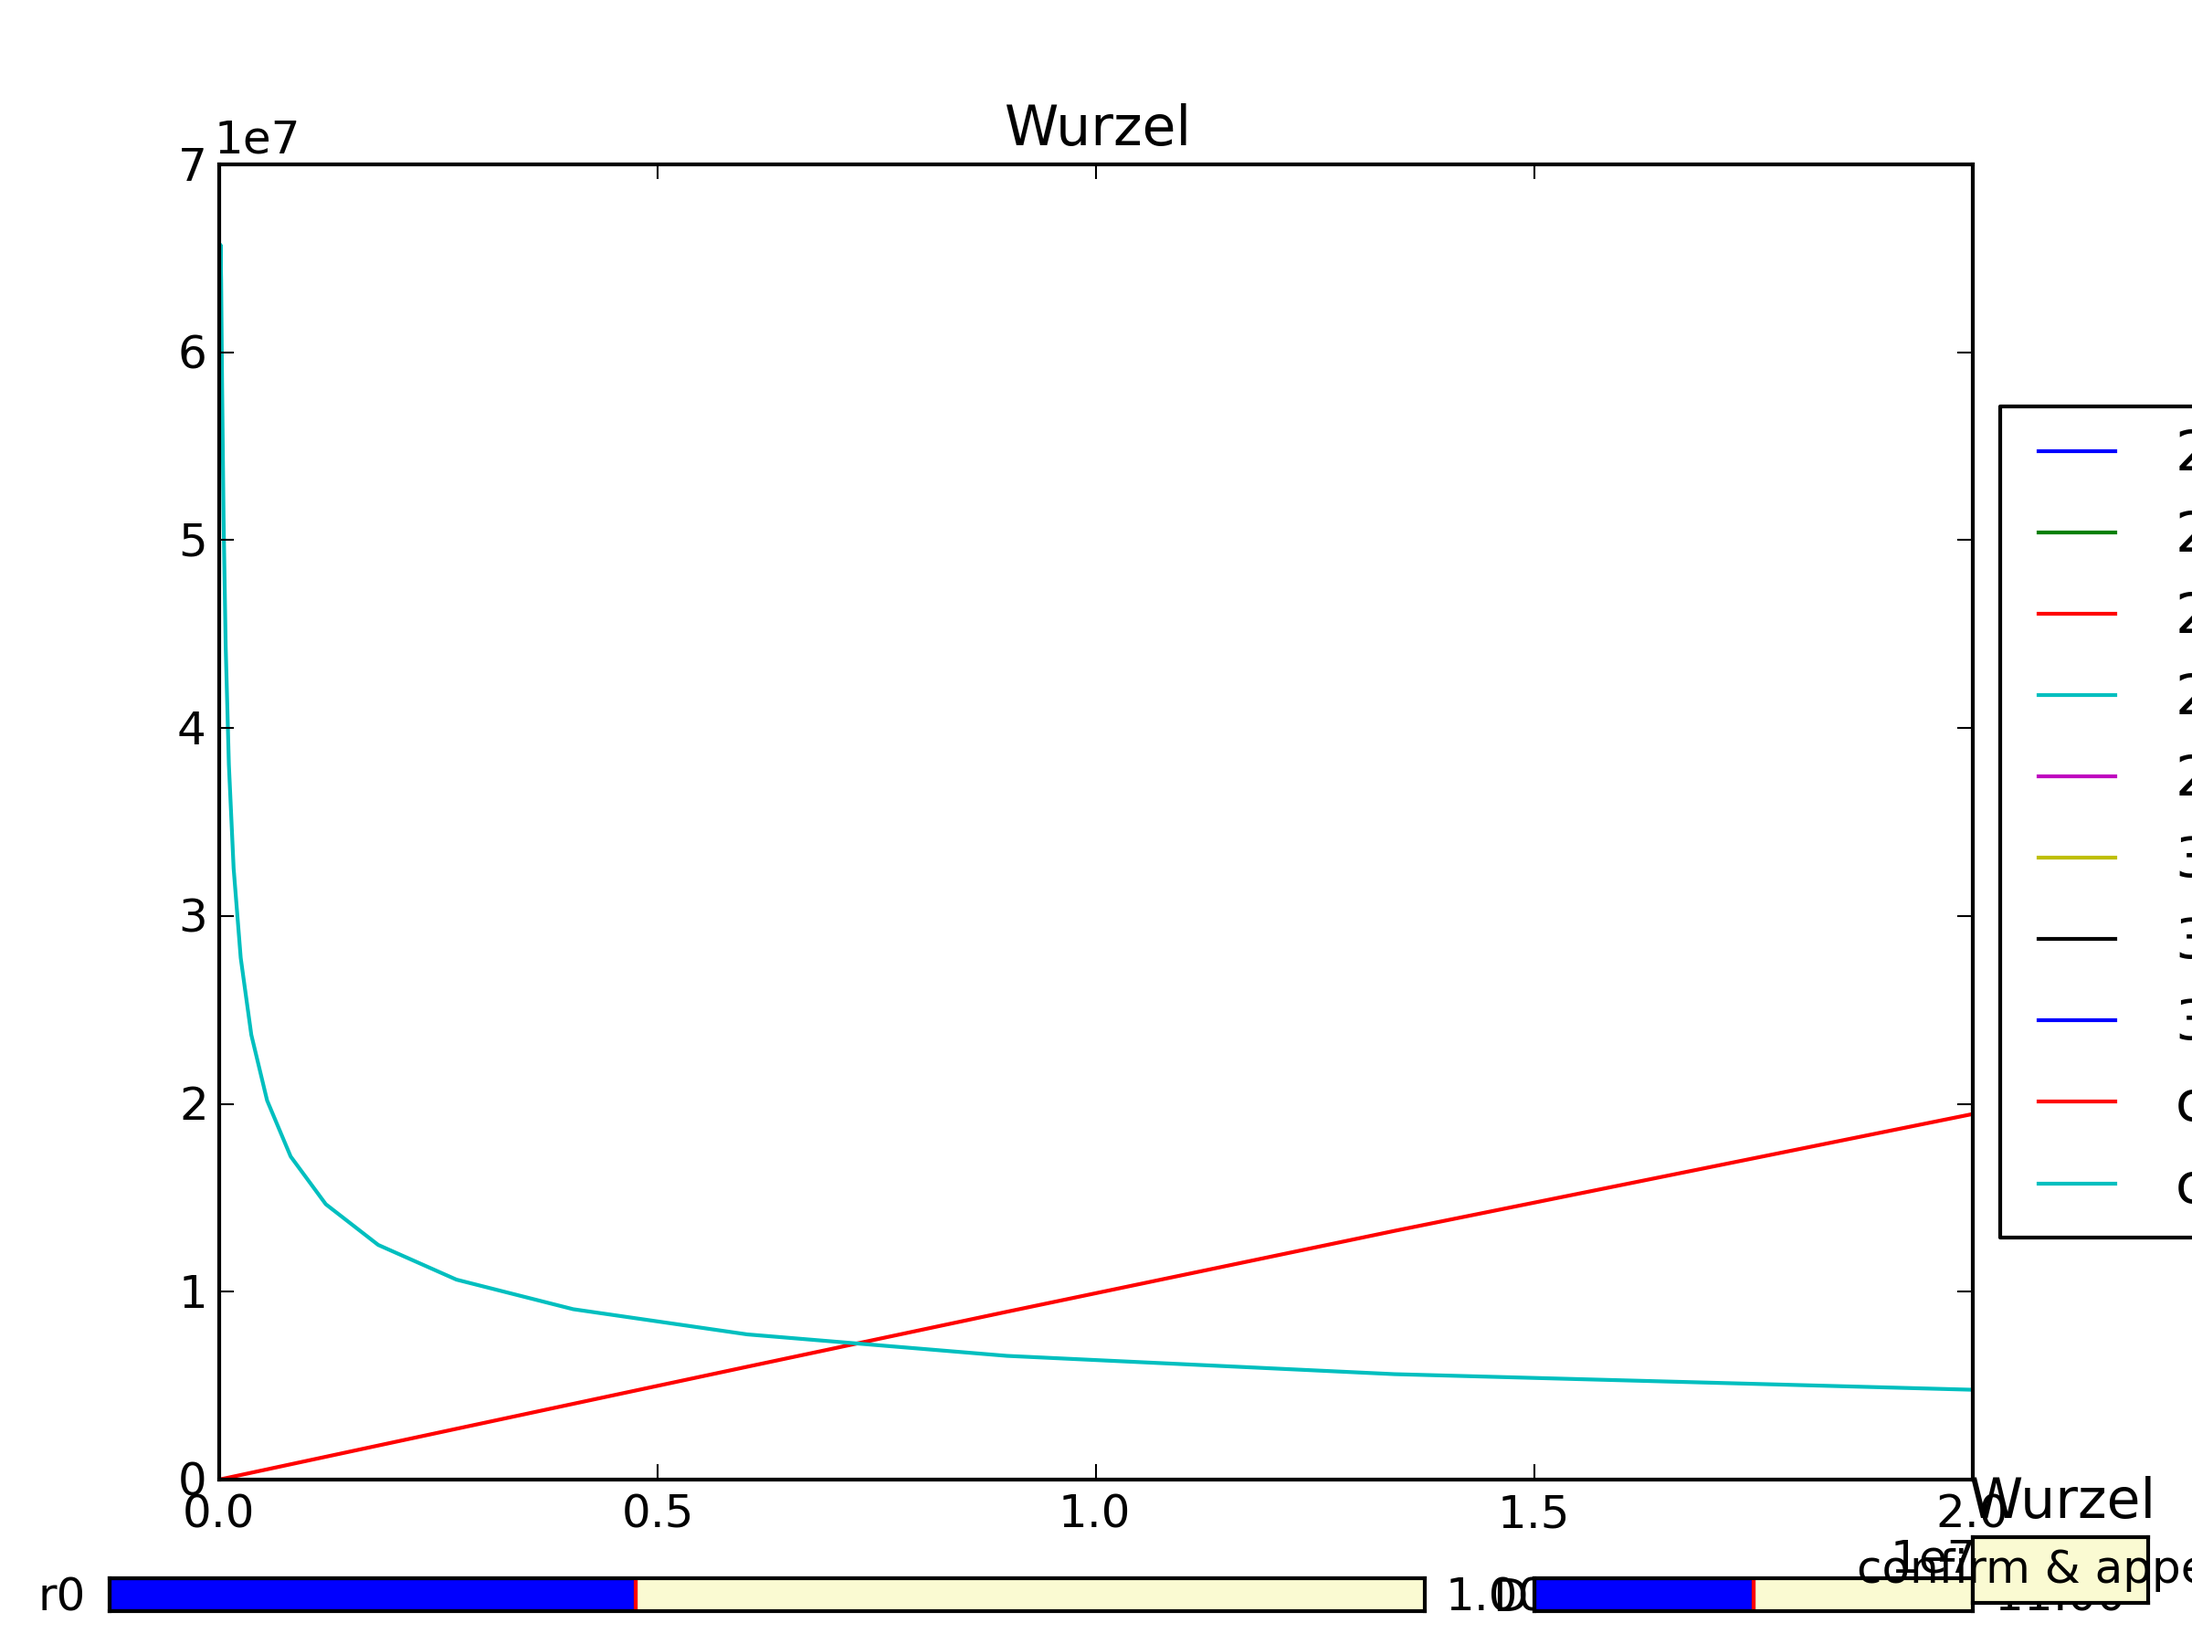
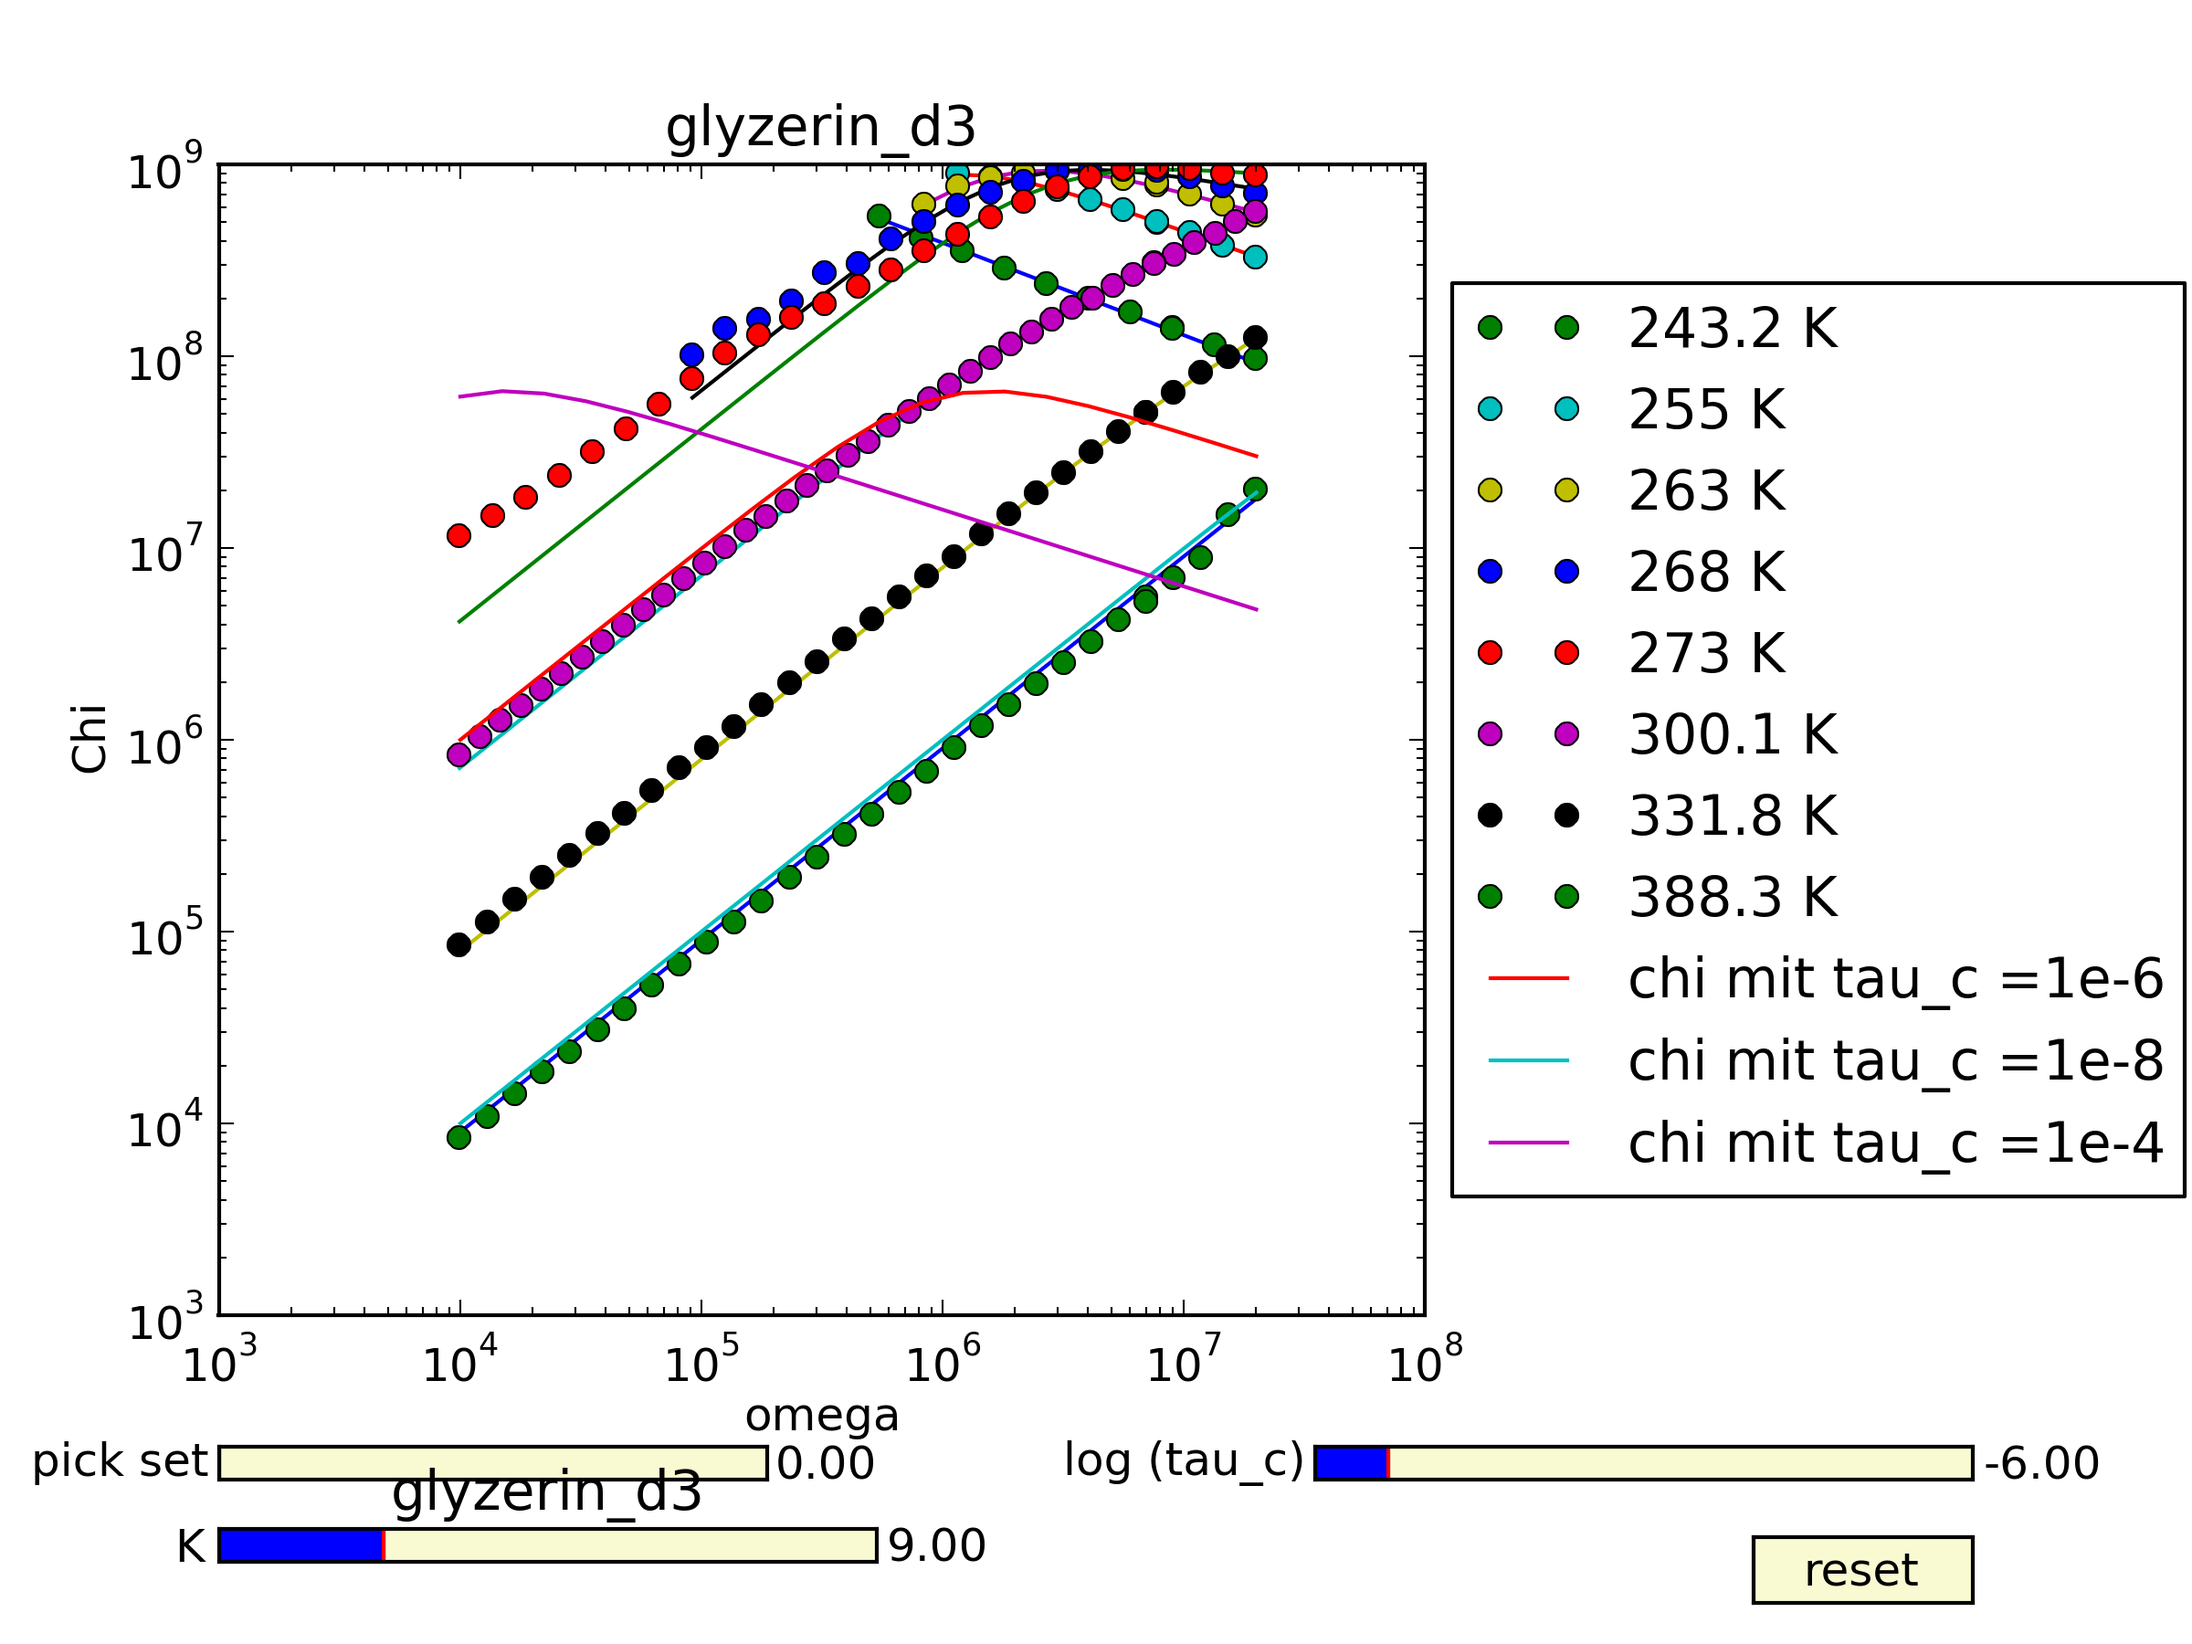
hier stimmen die faktoren fuer diffusion glyzerin

diff --git a/ffc/Glyzerin d3 test/interaktiv-susz.py b/ffc/Glyzerin d3 test/interaktiv-susz.py
@@ -14,10 +14,6 @@ br=[]
 rf=[]
 ra1=[]
 ch=[]
-zeichneD=[]
-zeichneT=[]
-chiNormHelp=[1,1]
-tauNormHelp=[1,1]
 beta=0.9
 omega=np.logspace(4.0,7.301,20,10)
 tau_c=1.0e-6
@@ -48,13 +44,14 @@ def R_1(omega,R1_0,D):
 	mu_0 =1.2566e-6
 	h_quer = 6.626e-34/(2.*np.pi)
 	gamma_H=2.675e8#/2/np.pi
+	print gamma_H
 	N_a=6.022e23
-	n_H=21.0
-	rho=rho_mTCP=1.15*1e6
-	M=M_mTCP=368.4
+	n_H=5.0
+	rho=rho_Glyzerin=1.26*1e6
+	M=M_Glyzerin_d3=95.0866#Sigma Aldrich Molecular Weight Calc
 	N=n_H*N_a*rho/M
 	B=np.pi/30.*(1.+4.*(2.**0.5))*(mu_0/4./np.pi * h_quer * gamma_H **2)**2 * N
-	#print N, omega,R1_0,D,B,R1_0-B/(D**1.5) *omega**0.5
+	print N, omega,R1_0,D,B,R1_0-B/(D**1.5) *omega**0.5
 	return R1_0-B/(D**1.5) *omega**0.5
 ##die verschiebefunktion fuer die suszibilitaet
 def update(val):
@@ -123,67 +120,28 @@ def r_ref(r):
 	d=10**float(sd0.val)
 	for i,om in enumerate(omega): 
 		br.append(omega[i]**0.5)
-		ra1.append(R_1(omega[i],10**r,d))
+		ra1.append(R_1(omega[i],r,d))
 	wurzelax.lines[wurzelax.lines.__len__()-1].set_ydata(ra1)
 	plt.draw()
 def d0(d):
 	br=[]
 	ra1=[]
 	rf=[]
-	r=10**float(sr0.val)
+	r=float(sr0.val)
 	d=10**d
-	print d
 	for i,om in enumerate(omega): 
 		br.append(omega[i]**0.5)
 		ra1.append(R_1(omega[i],r,d))
 	wurzelax.lines[wurzelax.lines.__len__()-1].set_ydata(ra1)
 	plt.draw()
 	return d
-def conf(event):
-	d=float(sd0.val)
-	r=10**(float(sr0.val))
-	T=raw_input('gebe temperatur ein')
-	zeichneD.append(d)
-	zeichneT.append(1000/float(T))
-	plt.figure(5)
-	plt.plot(zeichneT,zeichneD)
-	lsout=[]
-	with open('m-tcp_D.dat','w') as fout:
-		fout.close()
-	with open('m-tcp_D.dat','a') as fout:
-		for i, x in enumerate(zeichneD):
-			fout.write(str(1000/zeichneT[i])+'\t'+str(zeichneD[i])+'\n')
-	
-
-
 def normchi(K):
 	plt.figure(1)
-	chiNormHelp[1]=chiNormHelp[0]
-	chiNormHelp[0]=10**K
 	for line in ax.lines:
 		linex=line.get_xdata()
 		liney=line.get_ydata()
-		for i, y in enumerate(liney): 
-			liney[i]=y/(10**K)*chiNormHelp[1]
+		for y in liney: y=y/(10**K)
 		line.set_ydata(liney)
-	ax.relim()
-	ax.autoscale_view(True,True,True)
-	plt.draw()
-def normtau(val):##verschiebe die daten auf der x achse
-	plt.figure(1)
-	tauNormHelp[1]=tauNormHelp[0]
-	tauNormHelp[0]=10**val
-	for line in ax.lines:
-		linex=line.get_xdata()
-		liney=line.get_ydata()
-		for i, x in enumerate(linex): 
-			linex[i]=x/(10**val)*tauNormHelp[1]
-		line.set_xdata(linex)
-	ax.relim()
-	ax.autoscale_view(True,True,True)
-	plt.draw()
-	
-
 def reset(event):
 	stau_c.reset()
 
@@ -203,19 +161,13 @@ resetax =plt.axes([0.8,0.025,0.1,0.04])
 button = Button(resetax,'reset',color=axcolor,hovercolor='0.975')
 axK = plt.axes([0.1,0.05,0.3,0.02],axisbg=axcolor)
 sK=Slider(axK,'K',8,12,valinit=9)
-axOm = plt.axes([0.1,0.02,0.3,0.02],axisbg=axcolor)
-sOm = Slider(axOm,'normY',2,10,valinit=9)
-
-
 
 plt.figure(2)
 wurzelax=plt.axes([0.1,0.1,0.8,0.8])
 axr0=plt.axes([0.05,0.02,0.6,0.02],axisbg=axcolor)
-sr0=Slider(axr0,'r0',-1,4,valinit=1.0)
+sr0=Slider(axr0,'r0',0.5,10,valinit=1.0)
 axD=plt.axes([0.7,0.02,0.2,0.02],axisbg=axcolor)
 sd0=Slider(axD,'D',-15,-7,valinit=-11)
-confax =plt.axes([0.9,0.025,0.08,0.04])
-bconf = Button(confax,'confirm & append',color=axcolor,hovercolor='0.975')
 
 plt.figure(3)
 ##wird spaeter bemalt
@@ -226,20 +178,13 @@ plt.title('verschiebefaktoren in der suszeptiblitaet')
 plt.xlabel('T')
 plt.ylabel('schiebefaktoren a.u.')
 
-plt.figure(5)
-diffax=plt.axes([0.15,0.15,0.8,0.8])
-plt.title('Diffusion')
-plt.xlabel('1000/T $[K^{-1}]$')
-plt.ylabel(r'lg(D) $[\frac{m^2}{s}]$')
 ##interaktion mit der gui
 picker.on_changed(pick)
 button.on_clicked(reset)
 stau_c.on_changed(update)
 sK.on_changed(normchi)
-sOm.on_changed(normtau)
 sr0.on_changed(r_ref)
 sd0.on_changed(d0)
-bconf.on_clicked(conf)
 
 sefdata=[]
 temps=[]
@@ -309,7 +254,7 @@ for filename in sef:
 	wurzelax=plt.axes([0.1,0.1,0.8,0.8])
 	for i, b in enumerate(brlx):
 		brlx[i]=brlx[i]**0.5
-	plt.plot(brlx,r1,label=temp+' K')
+	plt.plot(brlx,r1,label=relativefile[0])
 	plt.figure(3)
 	plt.title('Rate')
 	plt.xscale('log')
@@ -324,7 +269,8 @@ print (map(lambda x: x**0.5,omega),map(lambda y:R_1(y,2,1e-10),wurzelomega))
 
 plt.figure(2)
 plt.plot(wurzelomega,map(lambda x: R_1(x,20,10e-9),omega))
-plt.legend()
+plt.figure(1)
+plt.plot(omega, Chi(omega,1e-6,0.7,1e8),label='chi mit tau_c =1e-6')
 plt.plot(omega, Chi(omega,1e-8,0.7,1e8),label='chi mit tau_c =1e-8')
 plt.plot(omega, Chi(omega,1e-4,0.7,1e8),label='chi mit tau_c =1e-4')
 plt.legend(loc='center left',bbox_to_anchor=(1,0.5))
